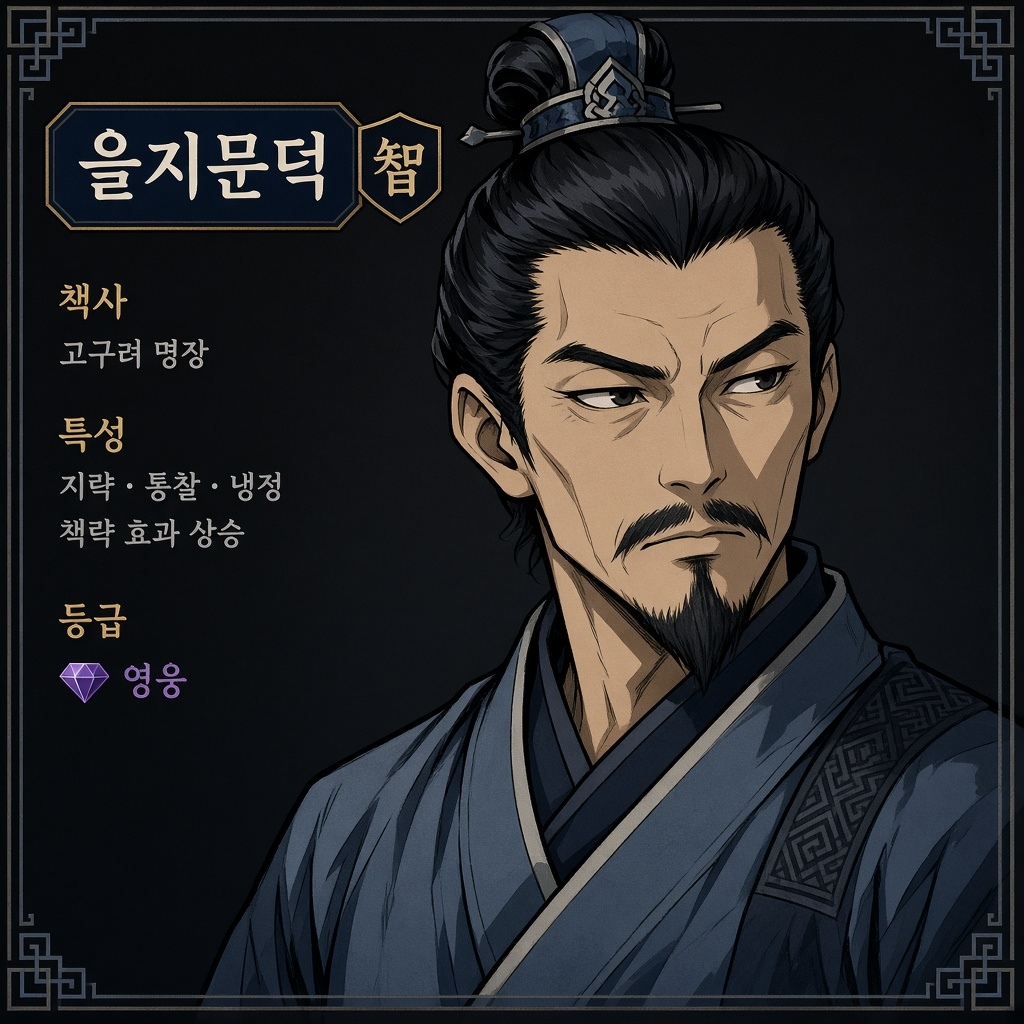
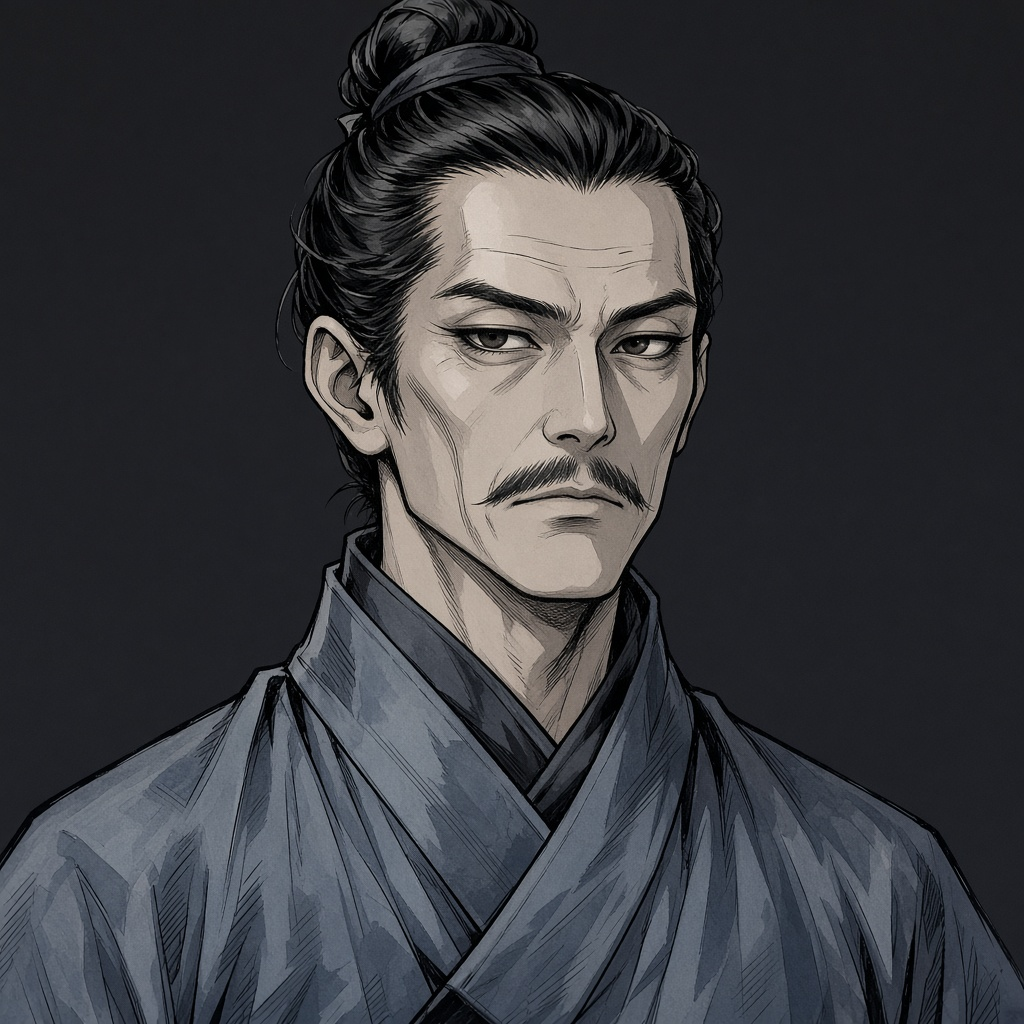
초상은 얼굴만 두고, 등급 배지와 능력치 막대는 코드로 그린다.

diff --git a/cheonha.html b/cheonha.html
@@ -73,20 +73,37 @@ kbd { font-family: var(--f-body); font-size: 0.8em; padding: 1px 6px; border: 1p
 .x { margin-left: auto; width: 32px; height: 32px; border: 1px solid var(--line); background: transparent; border-radius: 50%; cursor: pointer; color: var(--ash); font-size: 1.1rem; flex: none; }
 .x:hover { color: var(--bone); border-color: var(--gold); }
 
-/* 메달(영웅 초상) */
-.medal { --c: var(--soul); display: inline-grid; place-items: center; width: 44px; height: 44px; border-radius: 50%; flex: none; overflow: hidden; position: relative;
+/* 메달(영웅 초상) — 얼굴만 그림, 등급은 코드 배지 */
+.medal { --c: var(--soul); display: inline-grid; place-items: center; width: 44px; height: 44px; border-radius: 50%; flex: none; overflow: visible; position: relative;
   background: radial-gradient(circle at 50% 40%, color-mix(in srgb, var(--c) 32%, #141210), #0c0b0a 72%);
   border: 2px solid var(--c); box-shadow: 0 0 0 3px #0c0b0a, 0 0 0 4px color-mix(in srgb, var(--c) 45%, transparent), 0 0 18px color-mix(in srgb, var(--c) 30%, transparent); }
-.medal span { font-family: var(--f-glyph); font-weight: 900; color: var(--c); font-size: 1.25rem; line-height: 1; }
-.medal img { position: absolute; inset: 0; width: 100%; height: 100%; object-fit: cover; opacity: 0; }
+.medal .medal-glyph { font-family: var(--f-glyph); font-weight: 900; color: var(--c); font-size: 1.25rem; line-height: 1; z-index: 1; }
+.medal img { position: absolute; inset: 0; width: 100%; height: 100%; object-fit: cover; opacity: 0; border-radius: 50%; }
 .medal img.ok { opacity: 1; }
-.medal img.ok + span { display: none; }
+.medal img.ok + .medal-glyph { display: none; }
+.medal-grade { position: absolute; right: -4px; bottom: -4px; z-index: 2; min-width: 1.15em; height: 1.15em; padding: 0 3px;
+  display: inline-grid; place-items: center; border-radius: 999px; font-style: normal; font-family: var(--f-glyph); font-weight: 900; font-size: 0.62rem; line-height: 1;
+  color: #1a1408; background: var(--gold); border: 1.5px solid #0c0b0a; box-shadow: 0 1px 0 rgba(0,0,0,0.45); }
+.medal.grade-lord .medal-grade { background: #7fd3e6; color: #061018; }
+.medal.grade-legend .medal-grade { background: #d9ab4a; color: #1a1408; }
+.medal.grade-vet .medal-grade { background: #c4bba8; color: #1a1408; }
+.medal.grade-ace .medal-grade { background: #8fa8b8; color: #0c1014; }
+.medal.grade-rookie .medal-grade { background: #6a6558; color: #f0ead8; }
 .medal.sm { width: 26px; height: 26px; box-shadow: none; border-width: 1.5px; }
-.medal.sm span { font-size: 0.8rem; }
+.medal.sm .medal-glyph { font-size: 0.8rem; }
+.medal.sm .medal-grade { font-size: 0.5rem; right: -3px; bottom: -3px; min-width: 1em; height: 1em; padding: 0 2px; border-width: 1px; }
 .medal.lg { width: 64px; height: 64px; }
-.medal.lg span { font-size: 1.8rem; }
+.medal.lg .medal-glyph { font-size: 1.8rem; }
+.medal.lg .medal-grade { font-size: 0.78rem; min-width: 1.35em; height: 1.35em; right: -5px; bottom: -5px; }
 .medal.xl { width: 110px; height: 110px; }
-.medal.xl span { font-size: 3.2rem; }
+.medal.xl .medal-glyph { font-size: 3.2rem; }
+.medal.xl .medal-grade { font-size: 1rem; min-width: 1.5em; height: 1.5em; }
+.grade-chip { display: inline-flex; align-items: center; gap: 6px; margin-left: 8px; vertical-align: middle;
+  padding: 2px 8px 2px 8px; border-radius: 999px; border: 1px solid var(--line-2); background: var(--ink-2); font-size: 0.78rem; }
+.grade-chip b { font-family: var(--f-display); font-weight: 400; color: var(--gold); }
+.grade-chip i { font-style: normal; color: #e0b24a; letter-spacing: 0.04em; font-size: 0.72rem; }
+.grade-chip.grade-lord b { color: var(--soul); }
+.grade-chip.grade-rookie b, .grade-chip.grade-ace b, .grade-chip.grade-vet b { color: var(--ash); }
 .chip { --c: var(--ash); display: inline-grid; place-items: center; width: 24px; height: 24px; border-radius: 50%; border: 1.5px solid var(--c); color: var(--c); font-family: var(--f-glyph); font-weight: 900; font-size: 0.72rem; flex: none; background: #0d0c0b; }
 .chip.violet, .seal.violet { --c: var(--violet); }
 .seal { --c: var(--gold); display: inline-grid; place-items: center; width: 48px; height: 48px; border: 2px solid var(--c); color: var(--c); font-family: var(--f-glyph); font-weight: 900; font-size: 1.4rem; border-radius: 6px; transform: rotate(-4deg); flex: none; background: color-mix(in srgb, var(--c) 10%, #0d0c0b); }
@@ -209,9 +226,11 @@ blockquote.rumor { margin: 6px 0 10px; padding: 10px 14px; border-left: 2px soli
 .hd-head p { margin: 0; }
 .bio { color: var(--ash); font-size: 0.9rem; margin: 12px 0; }
 .stats { display: grid; grid-template-columns: repeat(5, 1fr); gap: 6px; }
-.stats div { background: var(--ink-2); border: 1px solid var(--line); border-radius: 3px; padding: 6px 4px; text-align: center; display: flex; flex-direction: column; }
+.stats div { background: var(--ink-2); border: 1px solid var(--line); border-radius: 3px; padding: 8px 6px 7px; text-align: center; display: flex; flex-direction: column; gap: 2px; min-width: 0; }
 .stats span { font-size: 0.72rem; color: var(--dim); }
 .stats b { font-family: var(--f-display); font-weight: 400; font-size: 1.15rem; font-variant-numeric: tabular-nums; }
+.stats .stat-bar { display: block; height: 4px; margin-top: 4px; border-radius: 2px; background: #000; position: relative; overflow: hidden; }
+.stats .stat-bar::after { content: ''; position: absolute; left: 0; top: 0; bottom: 0; width: var(--v, 40%); background: linear-gradient(90deg, color-mix(in srgb, var(--c, var(--gold)) 70%, #fff), var(--c, var(--gold))); }
 .skill { border: 1px solid var(--line); background: var(--paper); border-radius: 3px; padding: 10px 12px; margin-bottom: 8px; }
 .skill b { font-family: var(--f-display); font-weight: 400; font-size: 1.05rem; }
 .skill p { margin: 4px 0 0; font-size: 0.88rem; color: var(--ash); }
@@ -509,6 +528,9 @@ blockquote.rumor { margin: 6px 0 10px; padding: 10px 14px; border-left: 2px soli
   .ci.mini { height: 64px; }
   .ci.mini .ci-glyph { font-size: 2.2rem; }
   .stats { grid-template-columns: repeat(3, minmax(0, 1fr)); }
+  .grade-chip { margin-left: 4px; font-size: 0.72rem; padding: 2px 6px; }
+  .grade-chip i { font-size: 0.68rem; }
+  .medal.lg .medal-grade { font-size: 0.85rem; }
   .nations { grid-template-columns: repeat(2, 1fr); }
   .modal-card { padding: 16px; }
   .howto { font-size: 0.9rem; }
@@ -1082,6 +1104,18 @@ function portraitSrc(id) {
   if (!id || isOfficer(id)) return 'img/portraits/officer.jpg';
   return `img/portraits/${id}.jpg`;
 }
+/* 등급: 그림이 아니라 코드로만 표시한다 */
+function heroGrade(id) {
+  if (id === 'hero') return { id: 'lord', name: '맹주', short: '主', stars: 5 };
+  if (isOfficer(id)) {
+    const lv = (G.heroes[id] && G.heroes[id].level) || 1;
+    if (lv >= 8) return { id: 'vet', name: '노장', short: '老', stars: 3 };
+    if (lv >= 5) return { id: 'ace', name: '중견', short: '中', stars: 2 };
+    return { id: 'rookie', name: '신진', short: '新', stars: 1 };
+  }
+  return { id: 'legend', name: '명장', short: '名', stars: 4 };
+}
+function heroGradeStars(n) { return '★'.repeat(Math.max(0, Math.min(5, n | 0))); }
 function makeOfficer(kind, level, city, title) {
   const id = 'o' + (++G.offSeq);
   const r = () => Math.floor(Math.random() * 5);
@@ -4927,7 +4961,22 @@ function closeModal() {
 
 function medallion(id, size = '') {
   const d = HEROES[id];
-  return `<span class="medal ${size}" style="--c:${d.color}"><img src="${portraitSrc(id)}" alt="" width="256" height="256" decoding="async" onload="this.classList.add('ok')" onerror="this.remove()"><span>${esc(d.glyph)}</span></span>`;
+  const g = heroGrade(id);
+  return `<span class="medal ${size} grade-${g.id}" style="--c:${d.color}" title="${esc(g.name)}"><img src="${portraitSrc(id)}" alt="" width="256" height="256" decoding="async" onload="this.classList.add('ok')" onerror="this.remove()"><span class="medal-glyph">${esc(d.glyph)}</span><em class="medal-grade" aria-label="${esc(g.name)}">${esc(g.short)}</em></span>`;
+}
+function gradeChip(id) {
+  const g = heroGrade(id);
+  return `<span class="grade-chip grade-${g.id}" title="${esc(g.name)}"><b>${esc(g.name)}</b><i>${heroGradeStars(g.stars)}</i></span>`;
+}
+function statsBlock(id) {
+  const s = computeStats(id);
+  const rows = [
+    ['무력', s.str], ['통솔', s.lea], ['지력', s.int], ['민첩', s.agi], ['체력', s.vit],
+  ];
+  return `<div class="stats">${rows.map(([lab, v]) => {
+    const pct = Math.round(clamp((v / 28) * 100, 6, 100));
+    return `<div><span>${lab}</span><b>${v}</b><i class="stat-bar" style="--v:${pct}%"></i></div>`;
+  }).join('')}</div>`;
 }
 function itemLine(it) {
   const bits = [];
@@ -5301,14 +5350,12 @@ function heroDetail(id) {
   }
   return `<div class="hero-detail">
     <button class="back" data-act="heroback">← 영웅 목록</button>
-    <div class="hd-head">${medallion(id, 'lg')}<div><p class="eyebrow">${d.era} · ${d.title} · ${heroJob(id).name}</p><h3 class="h-display">${esc(heroName(id))}</h3>
+    <div class="hd-head">${medallion(id, 'lg')}<div><p class="eyebrow">${d.era} · ${d.title} · ${heroJob(id).name}</p><h3 class="h-display">${esc(heroName(id))} ${gradeChip(id)}</h3>
       <p class="muted">Lv ${h.level} · 경험 ${h.exp}/${needExp(h.level)}${isWeary(id) ? ' · 지침 (능력치 -20%)' : ''}${h.travel ? ` · ${CITIES[h.travel.from].name} → ${CITIES[h.travel.to].name} (${h.travel.left}턴)` : ''}</p><span class="bar"><i style="width:${Math.round(h.hp * 100)}%"></i></span></div></div>
     <p class="bio">${esc(d.bio)}</p>
     ${jobBlock(id)}
-    <div class="stats">
-      <div><span>무력</span><b>${s.str}</b></div><div><span>통솔</span><b>${s.lea}</b></div><div><span>지력</span><b>${s.int}</b></div>
-      <div><span>민첩</span><b>${s.agi}</b></div><div><span>체력</span><b>${s.vit}</b></div>
-    </div>
+    <p class="label">능력치</p>
+    ${statsBlock(id)}
     <dl class="kv small">
       <div><dt>공격 / 방어</dt><dd>${s.atk} / ${s.def}</dd></div>
       <div><dt>최대 체력</dt><dd>${s.maxHp}</dd></div>

diff --git a/index.html b/index.html
@@ -73,20 +73,37 @@ kbd { font-family: var(--f-body); font-size: 0.8em; padding: 1px 6px; border: 1p
 .x { margin-left: auto; width: 32px; height: 32px; border: 1px solid var(--line); background: transparent; border-radius: 50%; cursor: pointer; color: var(--ash); font-size: 1.1rem; flex: none; }
 .x:hover { color: var(--bone); border-color: var(--gold); }
 
-/* 메달(영웅 초상) */
-.medal { --c: var(--soul); display: inline-grid; place-items: center; width: 44px; height: 44px; border-radius: 50%; flex: none; overflow: hidden; position: relative;
+/* 메달(영웅 초상) — 얼굴만 그림, 등급은 코드 배지 */
+.medal { --c: var(--soul); display: inline-grid; place-items: center; width: 44px; height: 44px; border-radius: 50%; flex: none; overflow: visible; position: relative;
   background: radial-gradient(circle at 50% 40%, color-mix(in srgb, var(--c) 32%, #141210), #0c0b0a 72%);
   border: 2px solid var(--c); box-shadow: 0 0 0 3px #0c0b0a, 0 0 0 4px color-mix(in srgb, var(--c) 45%, transparent), 0 0 18px color-mix(in srgb, var(--c) 30%, transparent); }
-.medal span { font-family: var(--f-glyph); font-weight: 900; color: var(--c); font-size: 1.25rem; line-height: 1; }
-.medal img { position: absolute; inset: 0; width: 100%; height: 100%; object-fit: cover; opacity: 0; }
+.medal .medal-glyph { font-family: var(--f-glyph); font-weight: 900; color: var(--c); font-size: 1.25rem; line-height: 1; z-index: 1; }
+.medal img { position: absolute; inset: 0; width: 100%; height: 100%; object-fit: cover; opacity: 0; border-radius: 50%; }
 .medal img.ok { opacity: 1; }
-.medal img.ok + span { display: none; }
+.medal img.ok + .medal-glyph { display: none; }
+.medal-grade { position: absolute; right: -4px; bottom: -4px; z-index: 2; min-width: 1.15em; height: 1.15em; padding: 0 3px;
+  display: inline-grid; place-items: center; border-radius: 999px; font-style: normal; font-family: var(--f-glyph); font-weight: 900; font-size: 0.62rem; line-height: 1;
+  color: #1a1408; background: var(--gold); border: 1.5px solid #0c0b0a; box-shadow: 0 1px 0 rgba(0,0,0,0.45); }
+.medal.grade-lord .medal-grade { background: #7fd3e6; color: #061018; }
+.medal.grade-legend .medal-grade { background: #d9ab4a; color: #1a1408; }
+.medal.grade-vet .medal-grade { background: #c4bba8; color: #1a1408; }
+.medal.grade-ace .medal-grade { background: #8fa8b8; color: #0c1014; }
+.medal.grade-rookie .medal-grade { background: #6a6558; color: #f0ead8; }
 .medal.sm { width: 26px; height: 26px; box-shadow: none; border-width: 1.5px; }
-.medal.sm span { font-size: 0.8rem; }
+.medal.sm .medal-glyph { font-size: 0.8rem; }
+.medal.sm .medal-grade { font-size: 0.5rem; right: -3px; bottom: -3px; min-width: 1em; height: 1em; padding: 0 2px; border-width: 1px; }
 .medal.lg { width: 64px; height: 64px; }
-.medal.lg span { font-size: 1.8rem; }
+.medal.lg .medal-glyph { font-size: 1.8rem; }
+.medal.lg .medal-grade { font-size: 0.78rem; min-width: 1.35em; height: 1.35em; right: -5px; bottom: -5px; }
 .medal.xl { width: 110px; height: 110px; }
-.medal.xl span { font-size: 3.2rem; }
+.medal.xl .medal-glyph { font-size: 3.2rem; }
+.medal.xl .medal-grade { font-size: 1rem; min-width: 1.5em; height: 1.5em; }
+.grade-chip { display: inline-flex; align-items: center; gap: 6px; margin-left: 8px; vertical-align: middle;
+  padding: 2px 8px 2px 8px; border-radius: 999px; border: 1px solid var(--line-2); background: var(--ink-2); font-size: 0.78rem; }
+.grade-chip b { font-family: var(--f-display); font-weight: 400; color: var(--gold); }
+.grade-chip i { font-style: normal; color: #e0b24a; letter-spacing: 0.04em; font-size: 0.72rem; }
+.grade-chip.grade-lord b { color: var(--soul); }
+.grade-chip.grade-rookie b, .grade-chip.grade-ace b, .grade-chip.grade-vet b { color: var(--ash); }
 .chip { --c: var(--ash); display: inline-grid; place-items: center; width: 24px; height: 24px; border-radius: 50%; border: 1.5px solid var(--c); color: var(--c); font-family: var(--f-glyph); font-weight: 900; font-size: 0.72rem; flex: none; background: #0d0c0b; }
 .chip.violet, .seal.violet { --c: var(--violet); }
 .seal { --c: var(--gold); display: inline-grid; place-items: center; width: 48px; height: 48px; border: 2px solid var(--c); color: var(--c); font-family: var(--f-glyph); font-weight: 900; font-size: 1.4rem; border-radius: 6px; transform: rotate(-4deg); flex: none; background: color-mix(in srgb, var(--c) 10%, #0d0c0b); }
@@ -209,9 +226,11 @@ blockquote.rumor { margin: 6px 0 10px; padding: 10px 14px; border-left: 2px soli
 .hd-head p { margin: 0; }
 .bio { color: var(--ash); font-size: 0.9rem; margin: 12px 0; }
 .stats { display: grid; grid-template-columns: repeat(5, 1fr); gap: 6px; }
-.stats div { background: var(--ink-2); border: 1px solid var(--line); border-radius: 3px; padding: 6px 4px; text-align: center; display: flex; flex-direction: column; }
+.stats div { background: var(--ink-2); border: 1px solid var(--line); border-radius: 3px; padding: 8px 6px 7px; text-align: center; display: flex; flex-direction: column; gap: 2px; min-width: 0; }
 .stats span { font-size: 0.72rem; color: var(--dim); }
 .stats b { font-family: var(--f-display); font-weight: 400; font-size: 1.15rem; font-variant-numeric: tabular-nums; }
+.stats .stat-bar { display: block; height: 4px; margin-top: 4px; border-radius: 2px; background: #000; position: relative; overflow: hidden; }
+.stats .stat-bar::after { content: ''; position: absolute; left: 0; top: 0; bottom: 0; width: var(--v, 40%); background: linear-gradient(90deg, color-mix(in srgb, var(--c, var(--gold)) 70%, #fff), var(--c, var(--gold))); }
 .skill { border: 1px solid var(--line); background: var(--paper); border-radius: 3px; padding: 10px 12px; margin-bottom: 8px; }
 .skill b { font-family: var(--f-display); font-weight: 400; font-size: 1.05rem; }
 .skill p { margin: 4px 0 0; font-size: 0.88rem; color: var(--ash); }
@@ -509,6 +528,9 @@ blockquote.rumor { margin: 6px 0 10px; padding: 10px 14px; border-left: 2px soli
   .ci.mini { height: 64px; }
   .ci.mini .ci-glyph { font-size: 2.2rem; }
   .stats { grid-template-columns: repeat(3, minmax(0, 1fr)); }
+  .grade-chip { margin-left: 4px; font-size: 0.72rem; padding: 2px 6px; }
+  .grade-chip i { font-size: 0.68rem; }
+  .medal.lg .medal-grade { font-size: 0.85rem; }
   .nations { grid-template-columns: repeat(2, 1fr); }
   .modal-card { padding: 16px; }
   .howto { font-size: 0.9rem; }
@@ -1082,6 +1104,18 @@ function portraitSrc(id) {
   if (!id || isOfficer(id)) return 'img/portraits/officer.jpg';
   return `img/portraits/${id}.jpg`;
 }
+/* 등급: 그림이 아니라 코드로만 표시한다 */
+function heroGrade(id) {
+  if (id === 'hero') return { id: 'lord', name: '맹주', short: '主', stars: 5 };
+  if (isOfficer(id)) {
+    const lv = (G.heroes[id] && G.heroes[id].level) || 1;
+    if (lv >= 8) return { id: 'vet', name: '노장', short: '老', stars: 3 };
+    if (lv >= 5) return { id: 'ace', name: '중견', short: '中', stars: 2 };
+    return { id: 'rookie', name: '신진', short: '新', stars: 1 };
+  }
+  return { id: 'legend', name: '명장', short: '名', stars: 4 };
+}
+function heroGradeStars(n) { return '★'.repeat(Math.max(0, Math.min(5, n | 0))); }
 function makeOfficer(kind, level, city, title) {
   const id = 'o' + (++G.offSeq);
   const r = () => Math.floor(Math.random() * 5);
@@ -4927,7 +4961,22 @@ function closeModal() {
 
 function medallion(id, size = '') {
   const d = HEROES[id];
-  return `<span class="medal ${size}" style="--c:${d.color}"><img src="${portraitSrc(id)}" alt="" width="256" height="256" decoding="async" onload="this.classList.add('ok')" onerror="this.remove()"><span>${esc(d.glyph)}</span></span>`;
+  const g = heroGrade(id);
+  return `<span class="medal ${size} grade-${g.id}" style="--c:${d.color}" title="${esc(g.name)}"><img src="${portraitSrc(id)}" alt="" width="256" height="256" decoding="async" onload="this.classList.add('ok')" onerror="this.remove()"><span class="medal-glyph">${esc(d.glyph)}</span><em class="medal-grade" aria-label="${esc(g.name)}">${esc(g.short)}</em></span>`;
+}
+function gradeChip(id) {
+  const g = heroGrade(id);
+  return `<span class="grade-chip grade-${g.id}" title="${esc(g.name)}"><b>${esc(g.name)}</b><i>${heroGradeStars(g.stars)}</i></span>`;
+}
+function statsBlock(id) {
+  const s = computeStats(id);
+  const rows = [
+    ['무력', s.str], ['통솔', s.lea], ['지력', s.int], ['민첩', s.agi], ['체력', s.vit],
+  ];
+  return `<div class="stats">${rows.map(([lab, v]) => {
+    const pct = Math.round(clamp((v / 28) * 100, 6, 100));
+    return `<div><span>${lab}</span><b>${v}</b><i class="stat-bar" style="--v:${pct}%"></i></div>`;
+  }).join('')}</div>`;
 }
 function itemLine(it) {
   const bits = [];
@@ -5301,14 +5350,12 @@ function heroDetail(id) {
   }
   return `<div class="hero-detail">
     <button class="back" data-act="heroback">← 영웅 목록</button>
-    <div class="hd-head">${medallion(id, 'lg')}<div><p class="eyebrow">${d.era} · ${d.title} · ${heroJob(id).name}</p><h3 class="h-display">${esc(heroName(id))}</h3>
+    <div class="hd-head">${medallion(id, 'lg')}<div><p class="eyebrow">${d.era} · ${d.title} · ${heroJob(id).name}</p><h3 class="h-display">${esc(heroName(id))} ${gradeChip(id)}</h3>
       <p class="muted">Lv ${h.level} · 경험 ${h.exp}/${needExp(h.level)}${isWeary(id) ? ' · 지침 (능력치 -20%)' : ''}${h.travel ? ` · ${CITIES[h.travel.from].name} → ${CITIES[h.travel.to].name} (${h.travel.left}턴)` : ''}</p><span class="bar"><i style="width:${Math.round(h.hp * 100)}%"></i></span></div></div>
     <p class="bio">${esc(d.bio)}</p>
     ${jobBlock(id)}
-    <div class="stats">
-      <div><span>무력</span><b>${s.str}</b></div><div><span>통솔</span><b>${s.lea}</b></div><div><span>지력</span><b>${s.int}</b></div>
-      <div><span>민첩</span><b>${s.agi}</b></div><div><span>체력</span><b>${s.vit}</b></div>
-    </div>
+    <p class="label">능력치</p>
+    ${statsBlock(id)}
     <dl class="kv small">
       <div><dt>공격 / 방어</dt><dd>${s.atk} / ${s.def}</dd></div>
       <div><dt>최대 체력</dt><dd>${s.maxHp}</dd></div>

diff --git a/src/style.css b/src/style.css
@@ -64,20 +64,37 @@ kbd { font-family: var(--f-body); font-size: 0.8em; padding: 1px 6px; border: 1p
 .x { margin-left: auto; width: 32px; height: 32px; border: 1px solid var(--line); background: transparent; border-radius: 50%; cursor: pointer; color: var(--ash); font-size: 1.1rem; flex: none; }
 .x:hover { color: var(--bone); border-color: var(--gold); }
 
-/* 메달(영웅 초상) */
-.medal { --c: var(--soul); display: inline-grid; place-items: center; width: 44px; height: 44px; border-radius: 50%; flex: none; overflow: hidden; position: relative;
+/* 메달(영웅 초상) — 얼굴만 그림, 등급은 코드 배지 */
+.medal { --c: var(--soul); display: inline-grid; place-items: center; width: 44px; height: 44px; border-radius: 50%; flex: none; overflow: visible; position: relative;
   background: radial-gradient(circle at 50% 40%, color-mix(in srgb, var(--c) 32%, #141210), #0c0b0a 72%);
   border: 2px solid var(--c); box-shadow: 0 0 0 3px #0c0b0a, 0 0 0 4px color-mix(in srgb, var(--c) 45%, transparent), 0 0 18px color-mix(in srgb, var(--c) 30%, transparent); }
-.medal span { font-family: var(--f-glyph); font-weight: 900; color: var(--c); font-size: 1.25rem; line-height: 1; }
-.medal img { position: absolute; inset: 0; width: 100%; height: 100%; object-fit: cover; opacity: 0; }
+.medal .medal-glyph { font-family: var(--f-glyph); font-weight: 900; color: var(--c); font-size: 1.25rem; line-height: 1; z-index: 1; }
+.medal img { position: absolute; inset: 0; width: 100%; height: 100%; object-fit: cover; opacity: 0; border-radius: 50%; }
 .medal img.ok { opacity: 1; }
-.medal img.ok + span { display: none; }
+.medal img.ok + .medal-glyph { display: none; }
+.medal-grade { position: absolute; right: -4px; bottom: -4px; z-index: 2; min-width: 1.15em; height: 1.15em; padding: 0 3px;
+  display: inline-grid; place-items: center; border-radius: 999px; font-style: normal; font-family: var(--f-glyph); font-weight: 900; font-size: 0.62rem; line-height: 1;
+  color: #1a1408; background: var(--gold); border: 1.5px solid #0c0b0a; box-shadow: 0 1px 0 rgba(0,0,0,0.45); }
+.medal.grade-lord .medal-grade { background: #7fd3e6; color: #061018; }
+.medal.grade-legend .medal-grade { background: #d9ab4a; color: #1a1408; }
+.medal.grade-vet .medal-grade { background: #c4bba8; color: #1a1408; }
+.medal.grade-ace .medal-grade { background: #8fa8b8; color: #0c1014; }
+.medal.grade-rookie .medal-grade { background: #6a6558; color: #f0ead8; }
 .medal.sm { width: 26px; height: 26px; box-shadow: none; border-width: 1.5px; }
-.medal.sm span { font-size: 0.8rem; }
+.medal.sm .medal-glyph { font-size: 0.8rem; }
+.medal.sm .medal-grade { font-size: 0.5rem; right: -3px; bottom: -3px; min-width: 1em; height: 1em; padding: 0 2px; border-width: 1px; }
 .medal.lg { width: 64px; height: 64px; }
-.medal.lg span { font-size: 1.8rem; }
+.medal.lg .medal-glyph { font-size: 1.8rem; }
+.medal.lg .medal-grade { font-size: 0.78rem; min-width: 1.35em; height: 1.35em; right: -5px; bottom: -5px; }
 .medal.xl { width: 110px; height: 110px; }
-.medal.xl span { font-size: 3.2rem; }
+.medal.xl .medal-glyph { font-size: 3.2rem; }
+.medal.xl .medal-grade { font-size: 1rem; min-width: 1.5em; height: 1.5em; }
+.grade-chip { display: inline-flex; align-items: center; gap: 6px; margin-left: 8px; vertical-align: middle;
+  padding: 2px 8px 2px 8px; border-radius: 999px; border: 1px solid var(--line-2); background: var(--ink-2); font-size: 0.78rem; }
+.grade-chip b { font-family: var(--f-display); font-weight: 400; color: var(--gold); }
+.grade-chip i { font-style: normal; color: #e0b24a; letter-spacing: 0.04em; font-size: 0.72rem; }
+.grade-chip.grade-lord b { color: var(--soul); }
+.grade-chip.grade-rookie b, .grade-chip.grade-ace b, .grade-chip.grade-vet b { color: var(--ash); }
 .chip { --c: var(--ash); display: inline-grid; place-items: center; width: 24px; height: 24px; border-radius: 50%; border: 1.5px solid var(--c); color: var(--c); font-family: var(--f-glyph); font-weight: 900; font-size: 0.72rem; flex: none; background: #0d0c0b; }
 .chip.violet, .seal.violet { --c: var(--violet); }
 .seal { --c: var(--gold); display: inline-grid; place-items: center; width: 48px; height: 48px; border: 2px solid var(--c); color: var(--c); font-family: var(--f-glyph); font-weight: 900; font-size: 1.4rem; border-radius: 6px; transform: rotate(-4deg); flex: none; background: color-mix(in srgb, var(--c) 10%, #0d0c0b); }
@@ -200,9 +217,11 @@ blockquote.rumor { margin: 6px 0 10px; padding: 10px 14px; border-left: 2px soli
 .hd-head p { margin: 0; }
 .bio { color: var(--ash); font-size: 0.9rem; margin: 12px 0; }
 .stats { display: grid; grid-template-columns: repeat(5, 1fr); gap: 6px; }
-.stats div { background: var(--ink-2); border: 1px solid var(--line); border-radius: 3px; padding: 6px 4px; text-align: center; display: flex; flex-direction: column; }
+.stats div { background: var(--ink-2); border: 1px solid var(--line); border-radius: 3px; padding: 8px 6px 7px; text-align: center; display: flex; flex-direction: column; gap: 2px; min-width: 0; }
 .stats span { font-size: 0.72rem; color: var(--dim); }
 .stats b { font-family: var(--f-display); font-weight: 400; font-size: 1.15rem; font-variant-numeric: tabular-nums; }
+.stats .stat-bar { display: block; height: 4px; margin-top: 4px; border-radius: 2px; background: #000; position: relative; overflow: hidden; }
+.stats .stat-bar::after { content: ''; position: absolute; left: 0; top: 0; bottom: 0; width: var(--v, 40%); background: linear-gradient(90deg, color-mix(in srgb, var(--c, var(--gold)) 70%, #fff), var(--c, var(--gold))); }
 .skill { border: 1px solid var(--line); background: var(--paper); border-radius: 3px; padding: 10px 12px; margin-bottom: 8px; }
 .skill b { font-family: var(--f-display); font-weight: 400; font-size: 1.05rem; }
 .skill p { margin: 4px 0 0; font-size: 0.88rem; color: var(--ash); }
@@ -500,6 +519,9 @@ blockquote.rumor { margin: 6px 0 10px; padding: 10px 14px; border-left: 2px soli
   .ci.mini { height: 64px; }
   .ci.mini .ci-glyph { font-size: 2.2rem; }
   .stats { grid-template-columns: repeat(3, minmax(0, 1fr)); }
+  .grade-chip { margin-left: 4px; font-size: 0.72rem; padding: 2px 6px; }
+  .grade-chip i { font-size: 0.68rem; }
+  .medal.lg .medal-grade { font-size: 0.85rem; }
   .nations { grid-template-columns: repeat(2, 1fr); }
   .modal-card { padding: 16px; }
   .howto { font-size: 0.9rem; }

diff --git a/src/main.js b/src/main.js
@@ -67,7 +67,22 @@ function closeModal() {
 
 function medallion(id, size = '') {
   const d = HEROES[id];
-  return `<span class="medal ${size}" style="--c:${d.color}"><img src="${portraitSrc(id)}" alt="" width="256" height="256" decoding="async" onload="this.classList.add('ok')" onerror="this.remove()"><span>${esc(d.glyph)}</span></span>`;
+  const g = heroGrade(id);
+  return `<span class="medal ${size} grade-${g.id}" style="--c:${d.color}" title="${esc(g.name)}"><img src="${portraitSrc(id)}" alt="" width="256" height="256" decoding="async" onload="this.classList.add('ok')" onerror="this.remove()"><span class="medal-glyph">${esc(d.glyph)}</span><em class="medal-grade" aria-label="${esc(g.name)}">${esc(g.short)}</em></span>`;
+}
+function gradeChip(id) {
+  const g = heroGrade(id);
+  return `<span class="grade-chip grade-${g.id}" title="${esc(g.name)}"><b>${esc(g.name)}</b><i>${heroGradeStars(g.stars)}</i></span>`;
+}
+function statsBlock(id) {
+  const s = computeStats(id);
+  const rows = [
+    ['무력', s.str], ['통솔', s.lea], ['지력', s.int], ['민첩', s.agi], ['체력', s.vit],
+  ];
+  return `<div class="stats">${rows.map(([lab, v]) => {
+    const pct = Math.round(clamp((v / 28) * 100, 6, 100));
+    return `<div><span>${lab}</span><b>${v}</b><i class="stat-bar" style="--v:${pct}%"></i></div>`;
+  }).join('')}</div>`;
 }
 function itemLine(it) {
   const bits = [];
@@ -441,14 +456,12 @@ function heroDetail(id) {
   }
   return `<div class="hero-detail">
     <button class="back" data-act="heroback">← 영웅 목록</button>
-    <div class="hd-head">${medallion(id, 'lg')}<div><p class="eyebrow">${d.era} · ${d.title} · ${heroJob(id).name}</p><h3 class="h-display">${esc(heroName(id))}</h3>
+    <div class="hd-head">${medallion(id, 'lg')}<div><p class="eyebrow">${d.era} · ${d.title} · ${heroJob(id).name}</p><h3 class="h-display">${esc(heroName(id))} ${gradeChip(id)}</h3>
       <p class="muted">Lv ${h.level} · 경험 ${h.exp}/${needExp(h.level)}${isWeary(id) ? ' · 지침 (능력치 -20%)' : ''}${h.travel ? ` · ${CITIES[h.travel.from].name} → ${CITIES[h.travel.to].name} (${h.travel.left}턴)` : ''}</p><span class="bar"><i style="width:${Math.round(h.hp * 100)}%"></i></span></div></div>
     <p class="bio">${esc(d.bio)}</p>
     ${jobBlock(id)}
-    <div class="stats">
-      <div><span>무력</span><b>${s.str}</b></div><div><span>통솔</span><b>${s.lea}</b></div><div><span>지력</span><b>${s.int}</b></div>
-      <div><span>민첩</span><b>${s.agi}</b></div><div><span>체력</span><b>${s.vit}</b></div>
-    </div>
+    <p class="label">능력치</p>
+    ${statsBlock(id)}
     <dl class="kv small">
       <div><dt>공격 / 방어</dt><dd>${s.atk} / ${s.def}</dd></div>
       <div><dt>최대 체력</dt><dd>${s.maxHp}</dd></div>

diff --git a/src/game.js b/src/game.js
@@ -61,6 +61,18 @@ function portraitSrc(id) {
   if (!id || isOfficer(id)) return 'img/portraits/officer.jpg';
   return `img/portraits/${id}.jpg`;
 }
+/* 등급: 그림이 아니라 코드로만 표시한다 */
+function heroGrade(id) {
+  if (id === 'hero') return { id: 'lord', name: '맹주', short: '主', stars: 5 };
+  if (isOfficer(id)) {
+    const lv = (G.heroes[id] && G.heroes[id].level) || 1;
+    if (lv >= 8) return { id: 'vet', name: '노장', short: '老', stars: 3 };
+    if (lv >= 5) return { id: 'ace', name: '중견', short: '中', stars: 2 };
+    return { id: 'rookie', name: '신진', short: '新', stars: 1 };
+  }
+  return { id: 'legend', name: '명장', short: '名', stars: 4 };
+}
+function heroGradeStars(n) { return '★'.repeat(Math.max(0, Math.min(5, n | 0))); }
 function makeOfficer(kind, level, city, title) {
   const id = 'o' + (++G.offSeq);
   const r = () => Math.floor(Math.random() * 5);
